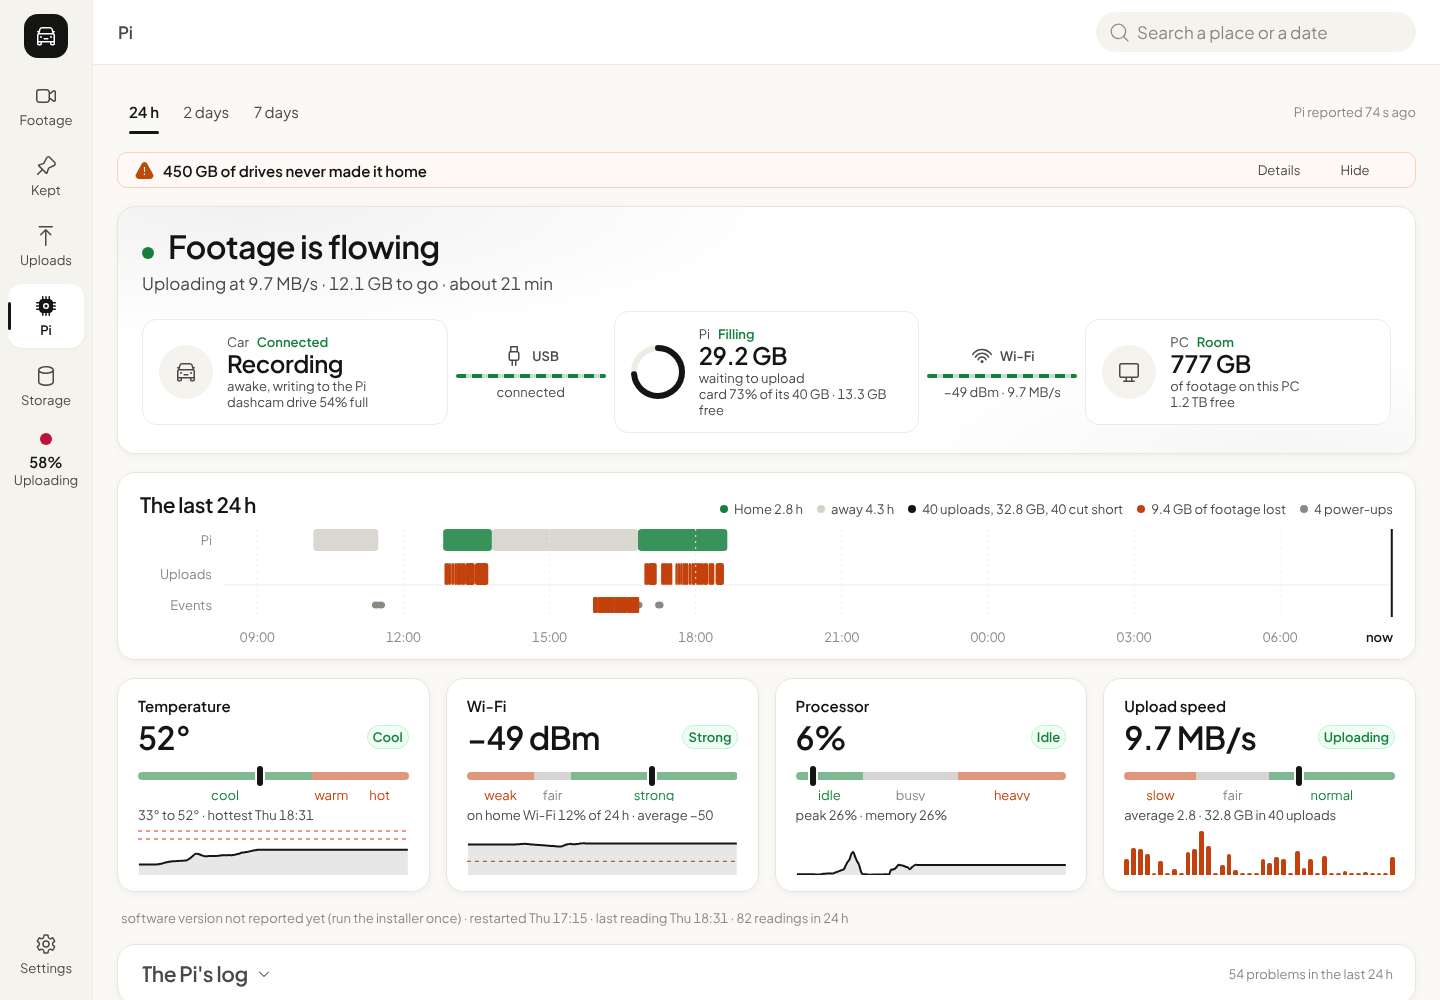
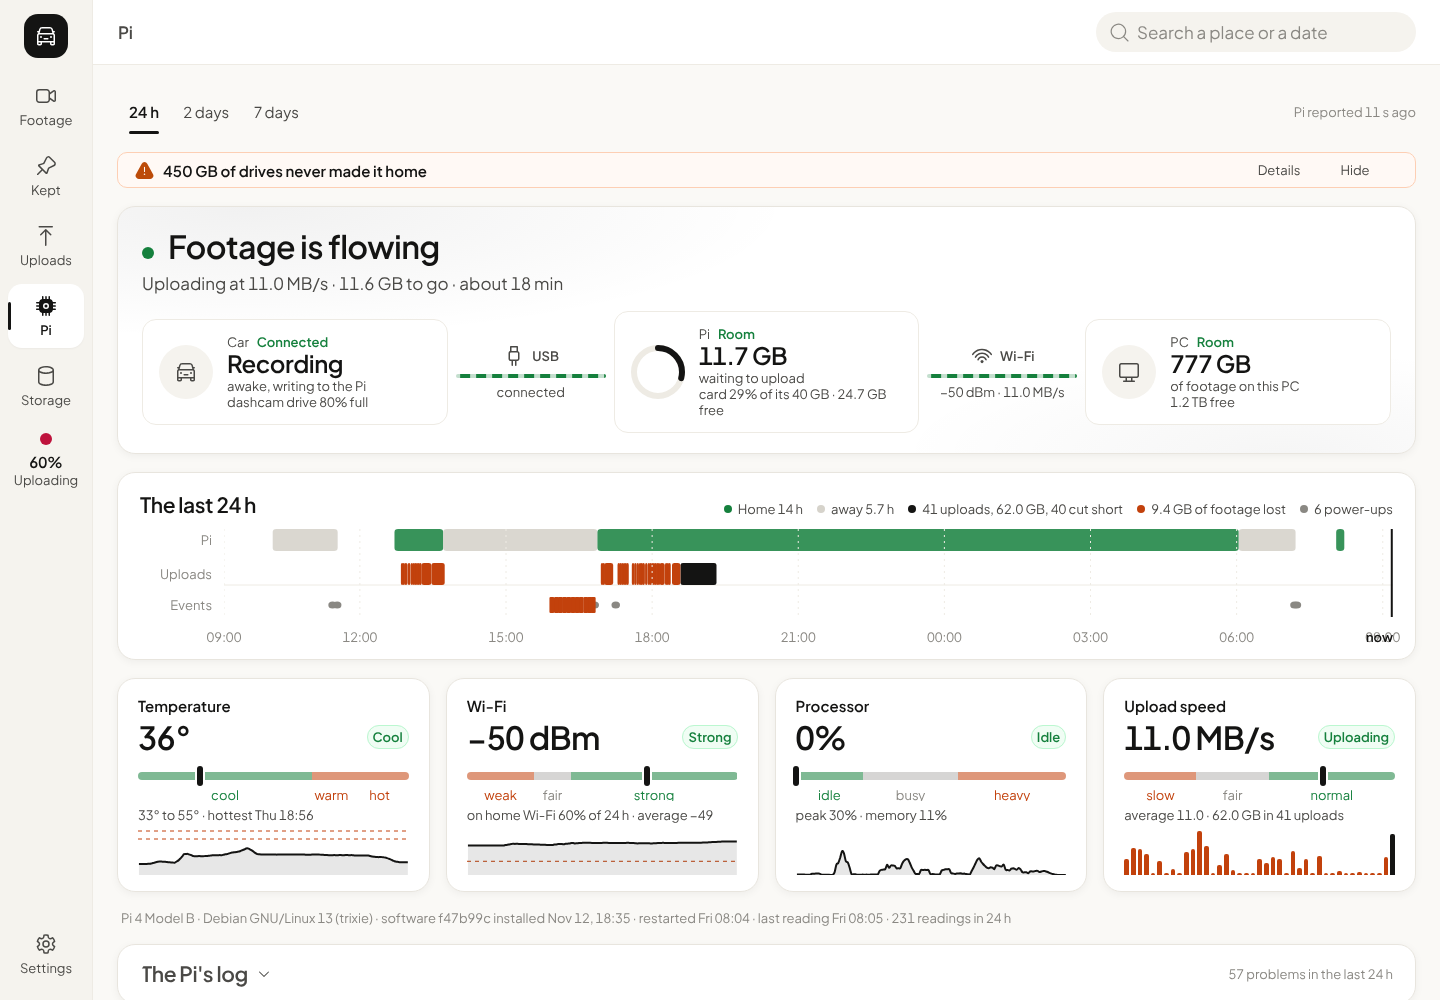
README: the dashboard-evolution animation, the rejected-looks sheet, and Pi/Uploads screenshots with real data
Claude-Session: https://claude.ai/code/session_01Gztn1o6EhtGLfHvuLvhBME

diff --git a/README.md b/README.md
@@ -46,6 +46,10 @@ Alongside it, `teslacam-archive.py` copies each finished minute of `RecentClips`
 
 The look is switchable (Settings → Look): five design systems, each defined once as CSS variables in `webapp/static/themes.css` and as a Fluent theme in `webapp/ui/src/designs.js`.
 
+<p align="center"><img src="docs/images/dashboard-evolution.gif" width="100%" alt="The Footage page in six versions, October 25 to November 13"></p>
+
+*How the Footage page changed over three weeks: six looks, the same footage. The 28 colour schemes that were tried and rejected along the way are in [docs/images/rejected-looks.png](docs/images/rejected-looks.png).*
+
 ## The build
 
 <table>
